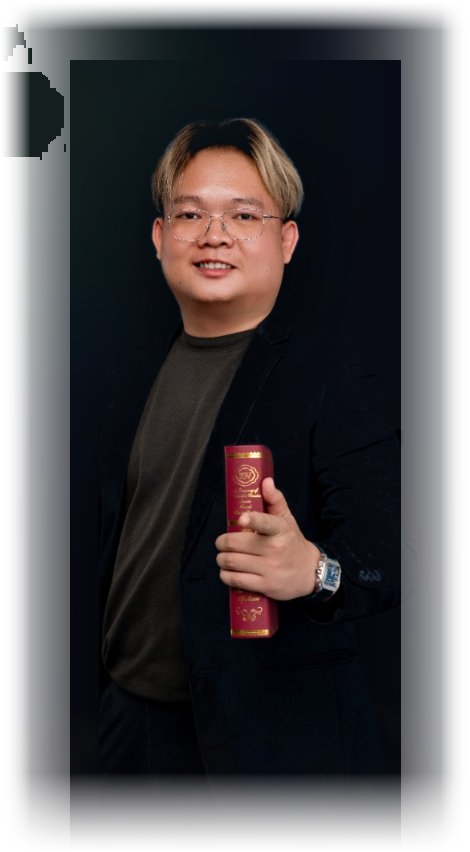
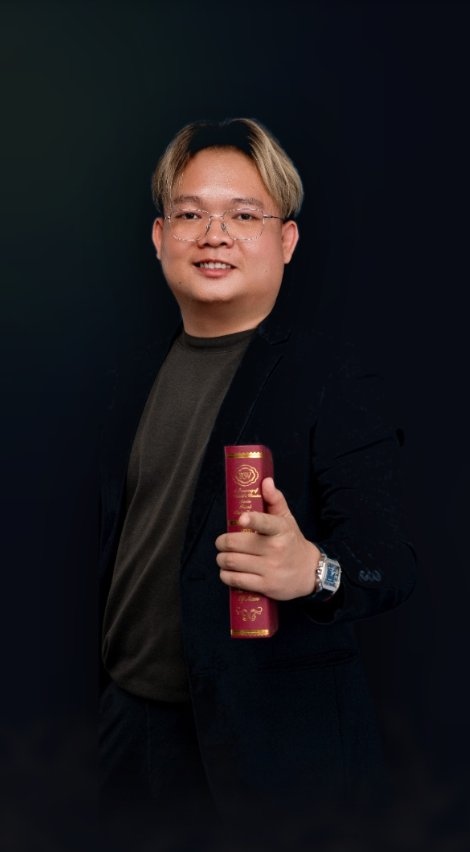
fix(hero): restore original portrait with 100% opacity, preserve full hair detail, and eliminate drop-shadow box shading

diff --git a/index.html b/index.html
@@ -45,7 +45,7 @@
   <link rel="preconnect" href="https://fonts.gstatic.com" crossorigin>
   <link href="https://fonts.googleapis.com/css2?family=Cinzel:wght@600;700;800;900&family=Kantumruy+Pro:ital,wght@0,300;0,400;0,500;0,600;0,700;1,400&family=Manrope:wght@300;400;500;600;700;800&family=Noto+Sans+Khmer:wght@300;400;500;600;700;800;900&family=Outfit:wght@400;500;600;700;800;900&family=Playfair+Display:ital,wght@0,600;0,700;1,400;1,600;1,700&family=Plus+Jakarta+Sans:wght@300;400;500;600;700;800&display=swap" rel="stylesheet">
 
-  <link rel="stylesheet" href="/styles.css?v=20261104v3">
+  <link rel="stylesheet" href="/styles.css?v=20261104v4">
 </head>
 <body>
 
@@ -256,7 +256,7 @@
 
           <!-- Hero Portrait: Real BlueX Photo (Feathered & Seamless Blend) -->
           <div class="hero-portrait-stage">
-            <img src="/assets/images/bluex-hero-portrait.png?v=20261104v5" alt="BlueX - Co-Founder SAGFX and Elite Trading Mentor" class="hero-portrait-img" width="682" height="1024" fetchpriority="high" decoding="async">
+            <img src="/assets/images/bluex-hero-portrait.png?v=20261104v6" alt="BlueX - Co-Founder SAGFX and Elite Trading Mentor" class="hero-portrait-img" width="682" height="1024" fetchpriority="high" decoding="async">
           </div>
 
           <!-- Hero Bottom Row -->

diff --git a/knowledge.html b/knowledge.html
@@ -44,7 +44,7 @@
   <link rel="preconnect" href="https://fonts.gstatic.com" crossorigin>
   <link href="https://fonts.googleapis.com/css2?family=Cinzel:wght@600;700;800;900&family=Kantumruy+Pro:ital,wght@0,300;0,400;0,500;0,600;0,700;1,400&family=Manrope:wght@300;400;500;600;700;800&family=Noto+Sans+Khmer:wght@300;400;500;600;700;800;900&family=Outfit:wght@400;500;600;700;800;900&family=Playfair+Display:ital,wght@0,600;0,700;1,400;1,600;1,700&family=Plus+Jakarta+Sans:wght@300;400;500;600;700;800&display=swap" rel="stylesheet">
 
-  <link rel="stylesheet" href="/styles.css?v=20261104v3">
+  <link rel="stylesheet" href="/styles.css?v=20261104v4">
   <style>
     .page-hero {
       padding: 130px 0 60px 0;

diff --git a/knowledge/index.html b/knowledge/index.html
@@ -44,7 +44,7 @@
   <link rel="preconnect" href="https://fonts.gstatic.com" crossorigin>
   <link href="https://fonts.googleapis.com/css2?family=Cinzel:wght@600;700;800;900&family=Kantumruy+Pro:ital,wght@0,300;0,400;0,500;0,600;0,700;1,400&family=Manrope:wght@300;400;500;600;700;800&family=Noto+Sans+Khmer:wght@300;400;500;600;700;800;900&family=Outfit:wght@400;500;600;700;800;900&family=Playfair+Display:ital,wght@0,600;0,700;1,400;1,600;1,700&family=Plus+Jakarta+Sans:wght@300;400;500;600;700;800&display=swap" rel="stylesheet">
 
-  <link rel="stylesheet" href="/styles.css?v=20261104v3">
+  <link rel="stylesheet" href="/styles.css?v=20261104v4">
   <style>
     .page-hero {
       padding: 130px 0 60px 0;

diff --git a/styles.css b/styles.css
@@ -756,10 +756,9 @@ button {
   height: 100%;
   object-fit: contain;
   object-position: bottom right;
-  filter: drop-shadow(0 18px 40px rgba(0, 0, 0, 0.85));
   mask-image: linear-gradient(to bottom, black 86%, transparent 100%);
   -webkit-mask-image: linear-gradient(to bottom, black 86%, transparent 100%);
-  transition: transform 0.4s ease, filter 0.4s ease;
+  transition: transform 0.4s ease;
 }
 
 .hero-bottom-row {
@@ -4356,7 +4355,7 @@ html.menu-open #floatingEnrollBtn {
 }
 
 [data-theme="light"] .hero-portrait-img {
-  filter: drop-shadow(0 15px 30px rgba(0, 0, 0, 0.25));
+  filter: none !important;
 }
 
 /* Sub-Descriptions & Paragraphs in Light Mode */

diff --git a/smc-genesis.html b/smc-genesis.html
@@ -50,7 +50,7 @@
   <link href="https://fonts.googleapis.com/css2?family=Cinzel:wght@600;700;800;900&family=JetBrains+Mono:wght@500;600;700&family=Kantumruy+Pro:ital,wght@0,300;0,400;0,500;0,600;0,700;1,400&family=Noto+Sans+Khmer:wght@300;400;500;600;700;800;900&family=Outfit:wght@400;500;600;700;800;900&family=Playfair+Display:ital,wght@0,600;0,700;1,600&family=Plus+Jakarta+Sans:wght@300;400;500;600;700;800;900&display=swap" rel="stylesheet">
 
   <!-- Core Stylesheet -->
-  <link rel="stylesheet" href="/styles.css?v=20261104v3">
+  <link rel="stylesheet" href="/styles.css?v=20261104v4">
 
   <style>
     /* Specific Table & Ecosystem Elements for SMC Genesis */

diff --git a/smc-genesis/index.html b/smc-genesis/index.html
@@ -50,7 +50,7 @@
   <link href="https://fonts.googleapis.com/css2?family=Cinzel:wght@600;700;800;900&family=JetBrains+Mono:wght@500;600;700&family=Kantumruy+Pro:ital,wght@0,300;0,400;0,500;0,600;0,700;1,400&family=Noto+Sans+Khmer:wght@300;400;500;600;700;800;900&family=Outfit:wght@400;500;600;700;800;900&family=Playfair+Display:ital,wght@0,600;0,700;1,600&family=Plus+Jakarta+Sans:wght@300;400;500;600;700;800;900&display=swap" rel="stylesheet">
 
   <!-- Core Stylesheet -->
-  <link rel="stylesheet" href="/styles.css?v=20261104v3">
+  <link rel="stylesheet" href="/styles.css?v=20261104v4">
 
   <style>
     /* Specific Table & Ecosystem Elements for SMC Genesis */

diff --git a/gold-hedging.html b/gold-hedging.html
@@ -50,7 +50,7 @@
   <link href="https://fonts.googleapis.com/css2?family=Cinzel:wght@600;700;800;900&family=JetBrains+Mono:wght@500;600;700&family=Kantumruy+Pro:ital,wght@0,300;0,400;0,500;0,600;0,700;1,400&family=Noto+Sans+Khmer:wght@300;400;500;600;700;800;900&family=Outfit:wght@400;500;600;700;800;900&family=Playfair+Display:ital,wght@0,600;0,700;1,600&family=Plus+Jakarta+Sans:wght@300;400;500;600;700;800;900&display=swap" rel="stylesheet">
 
   <!-- Core Stylesheet -->
-  <link rel="stylesheet" href="/styles.css?v=20261104v3">
+  <link rel="stylesheet" href="/styles.css?v=20261104v4">
 </head>
 <body class="page-hedging">
 

diff --git a/gold-hedging/index.html b/gold-hedging/index.html
@@ -50,7 +50,7 @@
   <link href="https://fonts.googleapis.com/css2?family=Cinzel:wght@600;700;800;900&family=JetBrains+Mono:wght@500;600;700&family=Kantumruy+Pro:ital,wght@0,300;0,400;0,500;0,600;0,700;1,400&family=Noto+Sans+Khmer:wght@300;400;500;600;700;800;900&family=Outfit:wght@400;500;600;700;800;900&family=Playfair+Display:ital,wght@0,600;0,700;1,600&family=Plus+Jakarta+Sans:wght@300;400;500;600;700;800;900&display=swap" rel="stylesheet">
 
   <!-- Core Stylesheet -->
-  <link rel="stylesheet" href="/styles.css?v=20261104v3">
+  <link rel="stylesheet" href="/styles.css?v=20261104v4">
 </head>
 <body class="page-hedging">
 
